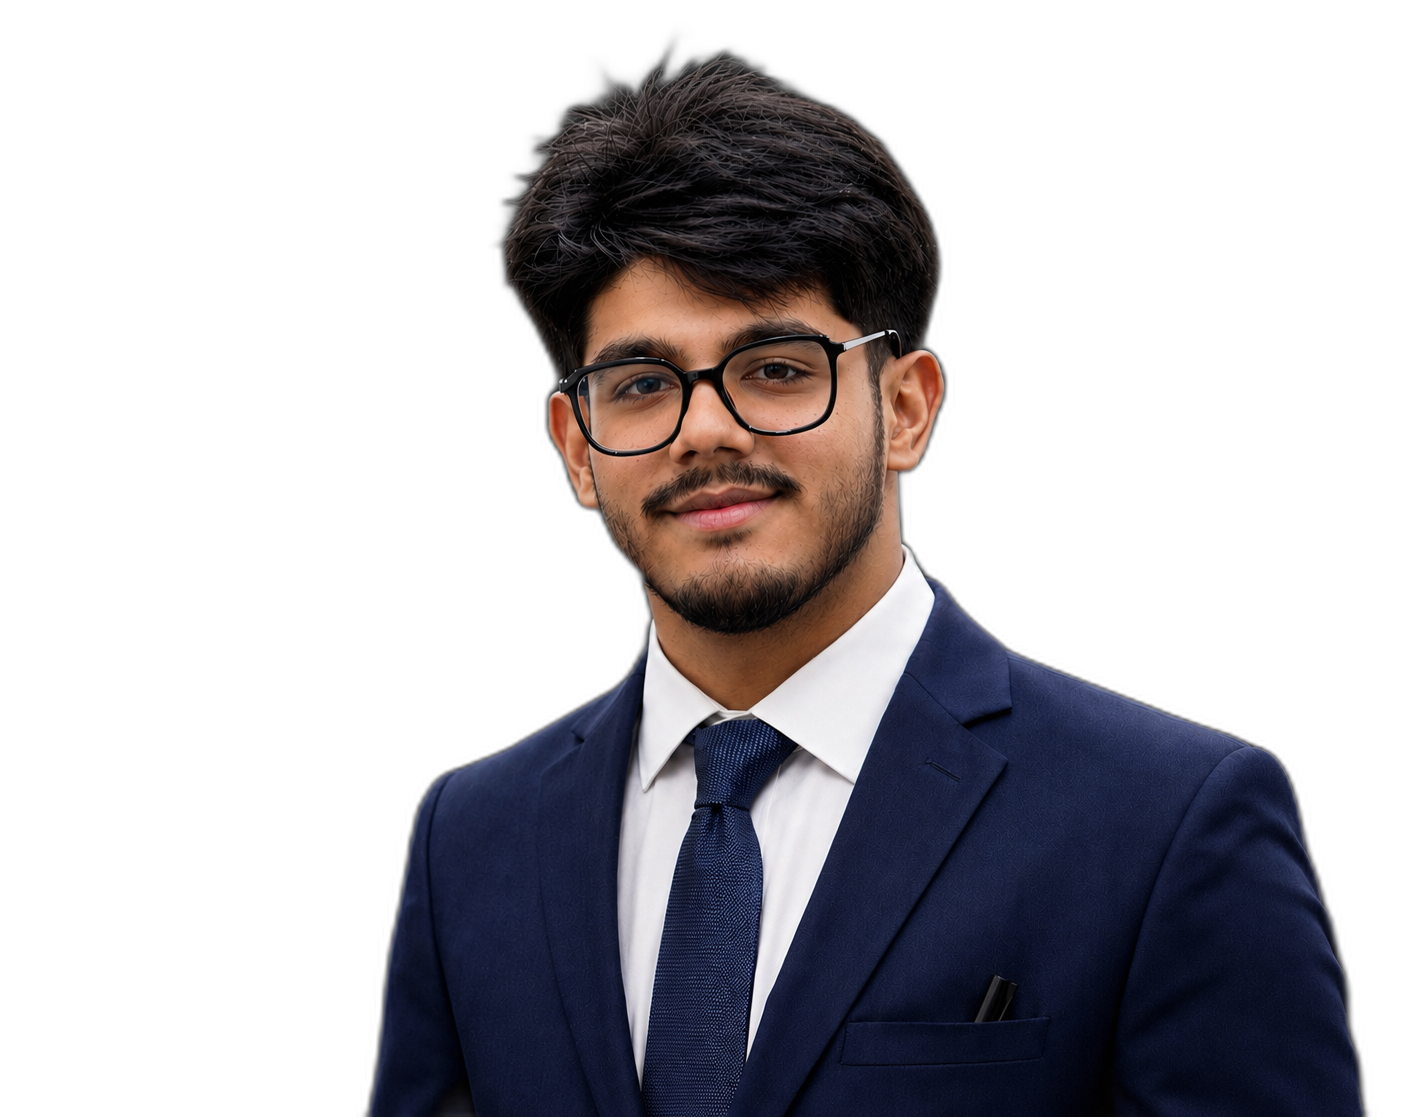
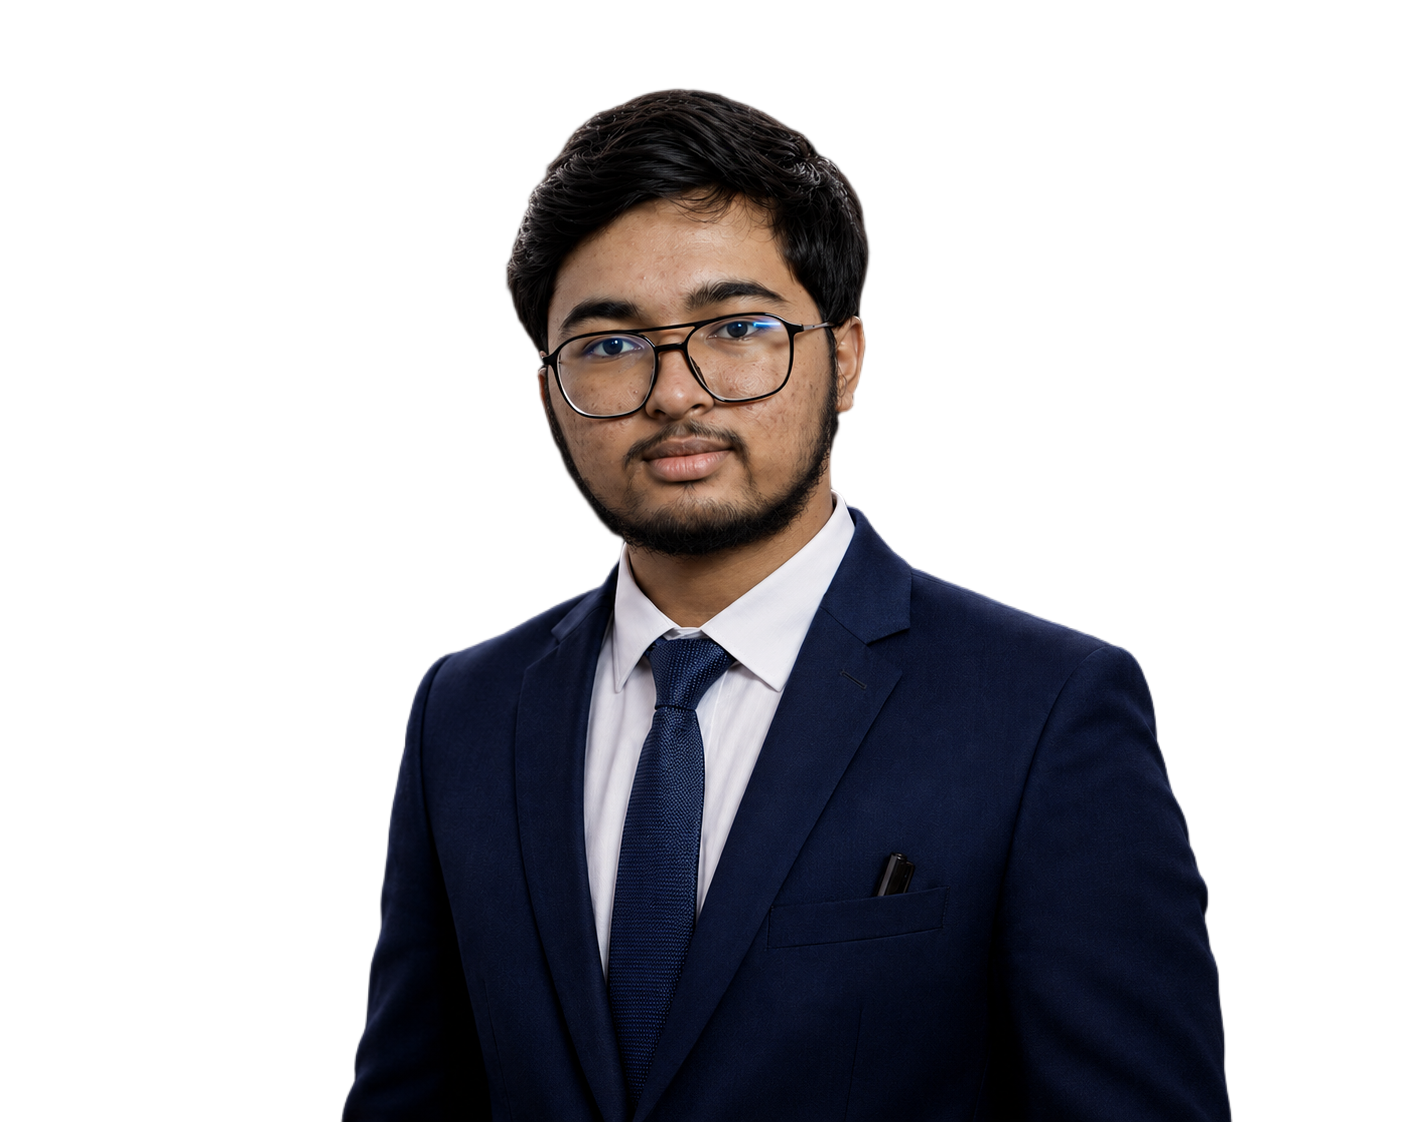
Update portfolio profile photo for Gaurav Navghare

Changed region(s): [[0.2454, 0.0304, 0.9815, 1.0], [0.7361, 0.8827, 0.7974, 1.0]]

diff --git a/src/components/About.jsx b/src/components/About.jsx
@@ -1,5 +1,5 @@
 import React, { useEffect, useRef } from 'react';
-import aboutImage from '../assets/about_section/222.jpg';
+import aboutImage from '../assets/hero_assets/hero_center.png';
 import gsap from 'gsap';
 import { ScrollTrigger } from 'gsap/ScrollTrigger';
 
